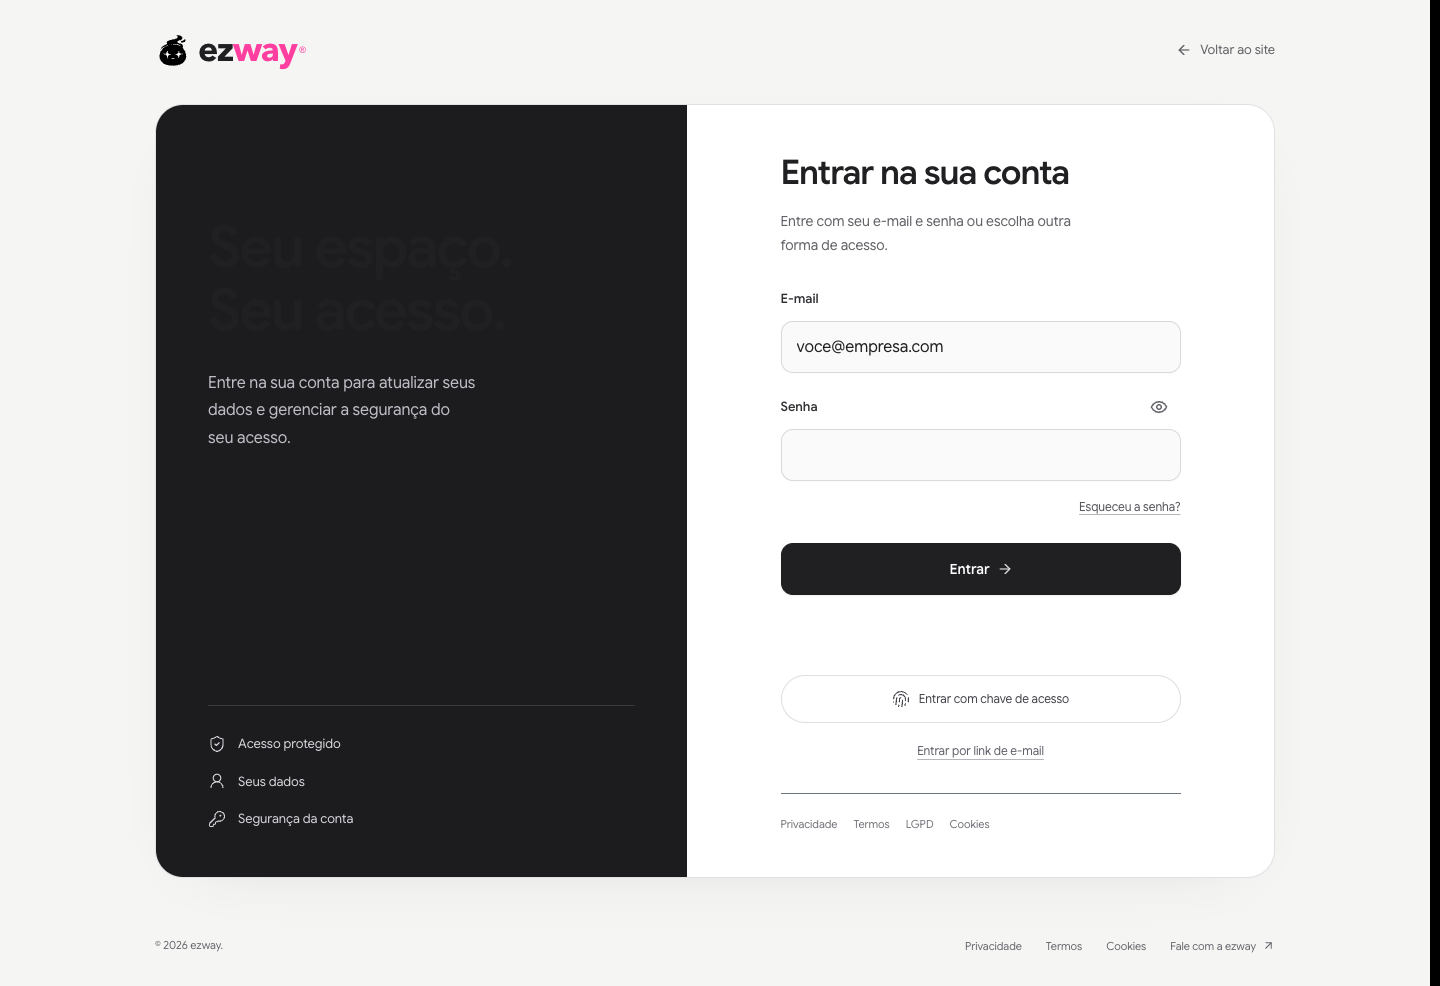
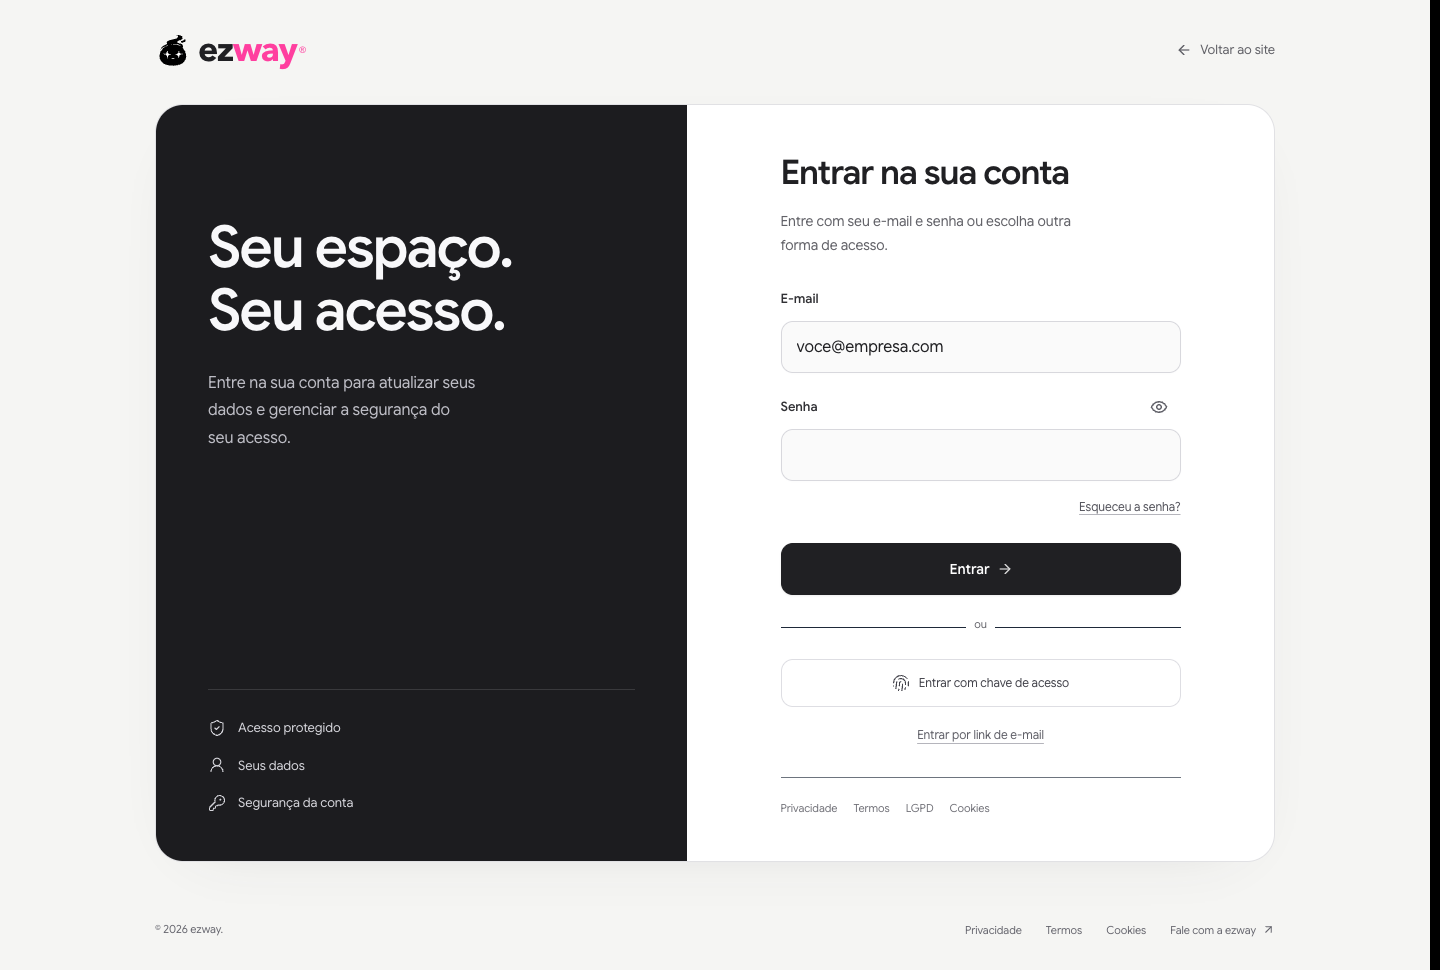
fix: finalize login feedback and validate release

diff --git a/nexos/tests/browser/login-premium.spec.ts b/nexos/tests/browser/login-premium.spec.ts
@@ -85,7 +85,7 @@ test('invalid credentials shake once per rejection, retain input and keep layout
     await expect(password).toBeFocused();
     await password.press('Enter');
     await expect(form).toHaveAttribute('data-credential-rejected', 'true');
-    await expect(page.getByRole('alert')).toContainText('E-mail ou senha incorretos');
+    await expect(page.locator('[data-slot="alert"]')).toContainText('E-mail ou senha incorretos');
     const shake = await form.evaluate(element => {
       const animation = element.getAnimations().find(animation => (animation as CSSAnimation).animationName?.includes('auth-credential-shake'));
       if (!animation) return null;
@@ -113,7 +113,7 @@ test('invalid credentials shake once per rejection, retain input and keep layout
   await password.fill('correcting');
   await expect(form).toHaveAttribute('data-credential-rejected', 'false');
   await expect(password).not.toHaveAttribute('aria-invalid', 'true');
-  await expect(page.getByRole('alert')).toHaveCount(0);
+  await expect(page.locator('[data-slot="alert"]')).toHaveCount(0);
 });
 
 for (const status of [429, 500, 503]) {
@@ -123,10 +123,10 @@ for (const status of [429, 500, 503]) {
     await page.getByLabel('E-mail', { exact: true }).fill('person@example.com');
     await page.getByLabel('Senha', { exact: true }).fill('password-123');
     await page.getByRole('button', { name: 'Entrar', exact: true }).click();
-    await expect(page.getByRole('alert')).toContainText(status === 429 ? 'Muitas tentativas' : 'temporariamente indisponível');
+    await expect(page.locator('[data-slot="alert"]')).toContainText(status === 429 ? 'Muitas tentativas' : 'temporariamente indisponível');
     await expect(page.locator('form[data-credential-rejected]')).toHaveAttribute('data-credential-rejected', 'false');
     await expect(page.getByRole('button', { name: 'Entrar', exact: true })).toBeEnabled();
-    await expect(page.getByRole('alert')).not.toContainText(/postgres|secret|database/);
+    await expect(page.locator('[data-slot="alert"]')).not.toContainText(/postgres|secret|database/);
   });
 }
 
@@ -136,7 +136,7 @@ test('offline failure recovers without a credential shake', async ({ page }) => 
   await page.getByLabel('E-mail', { exact: true }).fill('person@example.com');
   await page.getByLabel('Senha', { exact: true }).fill('password-123');
   await page.getByRole('button', { name: 'Entrar', exact: true }).click();
-  await expect(page.getByRole('alert')).toContainText('Conexão indisponível');
+  await expect(page.locator('[data-slot="alert"]')).toContainText('Conexão indisponível');
   await expect(page.locator('form[data-credential-rejected]')).toHaveAttribute('data-credential-rejected', 'false');
   await expect(page.getByRole('button', { name: 'Entrar', exact: true })).toBeEnabled();
 });
@@ -162,7 +162,7 @@ test('reduced motion retains accessible static error feedback', async ({ page })
   await page.getByLabel('E-mail', { exact: true }).fill('person@example.com');
   await page.getByLabel('Senha', { exact: true }).fill('password-123');
   await page.getByRole('button', { name: 'Entrar', exact: true }).click();
-  await expect(page.getByRole('alert')).toContainText('E-mail ou senha incorretos');
+  await expect(page.locator('[data-slot="alert"]')).toContainText('E-mail ou senha incorretos');
   await expect(page.locator('form[data-credential-rejected]')).toHaveCSS('animation-name', 'none');
   await expect(page.getByLabel('Senha', { exact: true })).toHaveAttribute('aria-describedby', 'login-feedback');
 });

diff --git a/nexos/src/components/auth/LoginForm.module.css b/nexos/src/components/auth/LoginForm.module.css
@@ -109,6 +109,7 @@
   --destructive: #a53337;
   --destructive-foreground: #a53337;
   --auth-ease: cubic-bezier(.22, 1, .36, 1);
+  --button-radius: 12px;
   color-scheme: light;
   background: var(--color-canvas);
   padding-bottom: 0;
@@ -133,6 +134,7 @@
   animation: auth-surface-arrive 450ms var(--auth-ease) both;
 }
 .premiumStory {
+  --color-ink: #f8f8fa;
   display: flex;
   flex-direction: column;
   justify-content: space-between;
@@ -143,7 +145,7 @@
   color: #f8f8fa;
 }
 .premiumStoryCopy { margin-top: 48px; }
-.premiumStoryCopy h2 { font-size: clamp(44px, 4.2vw, 58px); line-height: 1.08; font-weight: 600; letter-spacing: -.035em; text-wrap: balance; }
+.premiumStoryCopy h2 { color: #f8f8fa; font-size: clamp(44px, 4.2vw, 58px); line-height: 1.08; font-weight: 600; letter-spacing: -.035em; text-wrap: balance; }
 .premiumStoryCopy p { max-width: 30ch; margin-top: 28px; color: #bdbdc5; font-size: 16px; line-height: 1.7; text-wrap: pretty; }
 .premiumStoryFeatures { display: grid; gap: 18px; padding-top: 28px; border-top: 1px solid #ffffff21; }
 .premiumStoryFeatures li { display: flex; align-items: center; gap: 12px; color: #d4d4da; font-size: 13px; line-height: 1.5; }
@@ -198,7 +200,7 @@
 .premiumRoot .primarySubmit[data-success='true'] { cursor: progress; }
 .premiumRoot .primarySubmit:active:not(:disabled) { transform: scale(.985); }
 .premiumRoot .primarySubmit:focus-visible { outline: 2px solid #6d6d75; outline-offset: 4px; }
-.premiumRoot .feedback { display: grid; align-items: start; min-height: 80px; padding-top: 14px; }
+.premiumRoot .feedback { display: grid; align-items: center; min-height: 64px; }
 .premiumRoot .feedbackAlert { padding: 0; gap: 0; border: 0; border-radius: 0; color: var(--destructive); background: transparent; box-shadow: none; animation: auth-feedback-arrive 180ms ease-out both; }
 .premiumRoot .feedbackAlert :global([data-slot='alert-description']) { color: var(--destructive); font-size: 12px; line-height: 1.6; text-wrap: pretty; }
 .feedbackMessage { color: var(--text-secondary); font-size: 12px; line-height: 1.6; animation: auth-feedback-arrive 180ms ease-out both; }
@@ -258,3 +260,6 @@
 }
 
 .premiumRoot .panelWrap > :global([data-resize-transition]) { width: 100%; }
+
+.premiumRoot .alternateDivider { width: 100%; margin: 0; font-size: 11px; }
+.premiumRoot .alternateDivider :global([data-slot="separator"]) { background: #e4e4e8; }

diff --git a/nexos/tests/browser/dialog-transitions.spec.ts b/nexos/tests/browser/dialog-transitions.spec.ts
@@ -31,23 +31,9 @@ for (const reduced of [false, true]) {
   });
 }
 
-test('official modal recipe closes plate and management dialogs and resizes their details', async ({ page }) => {
-  await page.goto('/#gestao');
+test('plate dialog closes by button and Escape and restores trigger focus', async ({ page }) => {
+  await page.goto('/#showcase');
   await expect(page.locator('dialog[data-presentation]')).toHaveCount(0, { timeout: 15000 });
-  const explore = page.locator('[data-management-simulate]');
-  await explore.click();
-  const management = page.locator('dialog[data-management-simulation]');
-  await expect(management).toHaveClass(/t-modal/);
-  await expect(management).toHaveClass(/is-open/);
-  await expect(management).toHaveCSS('opacity', '1');
-  const resize = management.locator('[data-resize-transition]');
-  await expect.poll(() => resize.evaluate(el => el.getBoundingClientRect().height)).toBeGreaterThan(100);
-  await expect(resize).toHaveCSS('transition-duration', '0.3s, 0.3s');
-  await management.getByRole('button', { name: 'Clientes', exact: true }).click();
-  await expect(management.getByText('Histórico de relacionamento', { exact: true })).toBeVisible();
-  await page.keyboard.press('Escape');
-  await expect(management).toHaveCount(0);
-  await expect(explore).toBeFocused();
   const plate = page.locator('[data-plate-option]').first().getByRole('button');
   await plate.click();
   const plateDialog = page.locator('dialog[aria-labelledby="plate-dialog-title"]');
@@ -56,6 +42,12 @@ test('official modal recipe closes plate and management dialogs and resizes thei
   await plateDialog.getByRole('button', { name: 'Fechar detalhes da placa' }).click();
   await expect(plateDialog).not.toBeVisible();
   await expect(plate).toBeFocused();
+  await plate.click();
+  await expect(plateDialog).toHaveCSS('opacity', '1');
+  await page.keyboard.press('Escape');
+  await expect(plateDialog).not.toBeVisible();
+  await expect(plate).toBeFocused();
+  expect(await page.evaluate(() => document.documentElement.style.overflow)).not.toBe('hidden');
 });
 
 for (const viewport of [{ width: 320, height: 568 }, { width: 390, height: 844 }, { width: 820, height: 1180 }]) {

diff --git a/nexos/src/components/auth/LoginForm.tsx b/nexos/src/components/auth/LoginForm.tsx
@@ -179,6 +179,7 @@ export function LoginForm({ audience = 'admin', confirmationError, callbackUrl, 
   const feedback = <div className={cn(userFlow && styles.feedback)} data-login-feedback>
     {feedbackError && <Alert id="login-feedback" variant="destructive" className={cn(userFlow && styles.feedbackAlert)} aria-atomic="true"><AlertDescription>{feedbackError}</AlertDescription></Alert>}
     {!feedbackError && message && <p id="login-feedback" role="status" aria-live="polite" className={styles.feedbackMessage}>{message}</p>}
+    {userFlow && !feedbackError && !message && step === 'credentials' && mode === 'login' && <FieldSeparator className={styles.alternateDivider} aria-hidden="true">ou</FieldSeparator>}
   </div>;
   const alternateAccess = step === 'credentials' && mode === 'login' && <div className={cn(userFlow && styles.alternateAccess)}>
     <button type="button" disabled={busy} onClick={() => void passkeyLogin()} className={styles.passkeyButton}><Fingerprint size={18} aria-hidden="true" /> Entrar com chave de acesso</button>

diff --git a/nexos/docs/design/EXECUCAO.md b/nexos/docs/design/EXECUCAO.md
@@ -2,6 +2,17 @@
 
 Plano: [documento mestre](./PLANO-MESTRE-REFATORACAO-DESIGN.md).
 
+## Retomada e publicação autorizada — 20/11/2026
+
+- O usuário autorizou concluir a validação e publicar. A base é `41281a4`, com novo login, navegação direta e redirecionamentos das quatro páginas de serviços para a home.
+- Finalizados contraste do painel do login, raio dos botões, espaço de feedback e divisor entre senha e alternativas de acesso. Capturas atualizadas em 390, 820 e 1440 px.
+- Corrigido o processamento de CSS: as regras de movimento reduzido já previstas em `LoginForm.module.css` eram removidas pelo plugin de movimento completo. A exceção fica restrita ao formulário e às receitas de interação existentes; o comportamento cinematográfico da home permanece.
+- Atualizado o teste de diálogos para a vitrine de placas atual, cobrindo botão, Escape, retorno de foco e liberação do scroll. A simulação de gestão citada no histórico abaixo foi removida em alterações posteriores.
+- Build final e TypeScript aprovados. Lint global: zero erros e nove avisos preexistentes. Segurança: 9/9; compatibilidade de senha: 6/6; unidades: 7/7.
+- Navegador Chrome: 41 cenários distintos aprovados entre as rodadas; repetição final de login/copy/diálogos: 22/22. Inclui erro de credenciais, rede, limites, senha visível, movimento reduzido, callback, responsividade, navegação, cabeçalho e perfil de scroll.
+- Publicação pelo Git na `main`, projeto Vercel `nex-os2/nexos`, raiz `nexos/`. O arquivo não rastreado `../.vercelignore` foi preservado fora deste commit.
+- Os registros abaixo são históricos e não comprovam o estado atual de produção. O build conserva o aviso de fallback de Google Sans; a rodada local não valida biometria física nem entrega de e-mail real.
+
 ## Situação
 
 - Etapa 0 — **concluída:** documento mestre e acompanhamento gravados.
